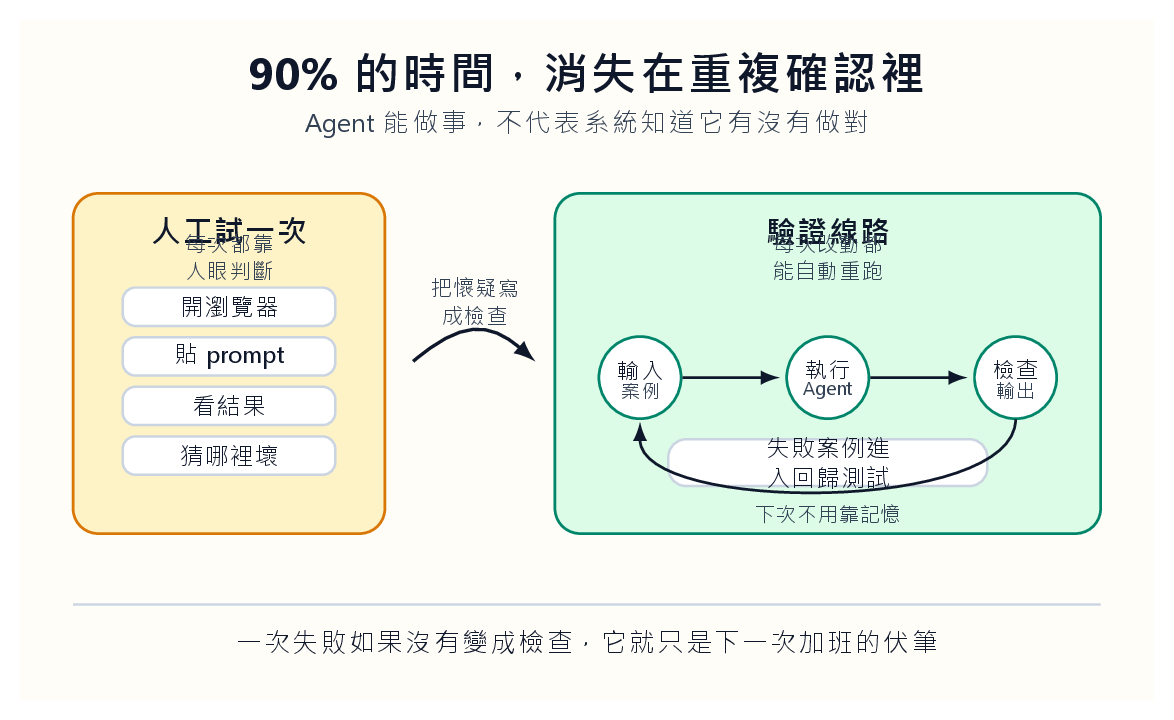
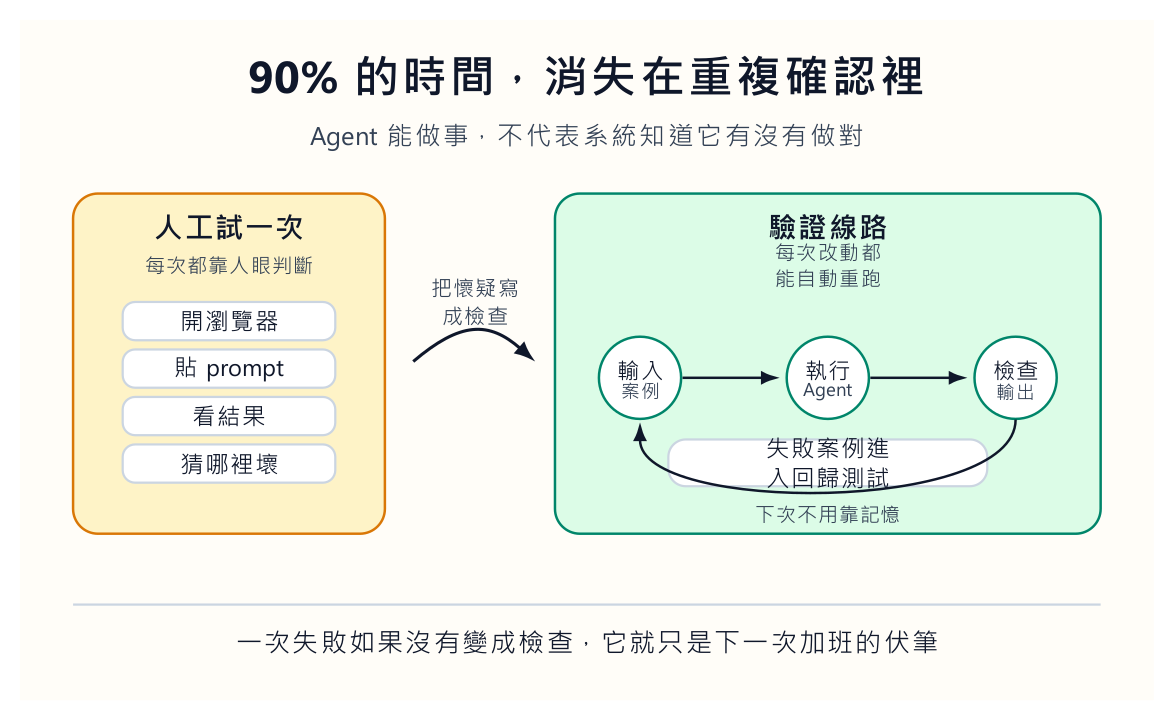
Refine agent engineering knowledge essays

diff --git a/knowledge/posts/2026-07-08-ai-agent-verification-harness/verification-harness.tex b/knowledge/posts/2026-07-08-ai-agent-verification-harness/verification-harness.tex
@@ -23,13 +23,13 @@
 \begin{document}
 \begin{tikzpicture}[x=1cm,y=1cm,>=Latex]
 \path[fill=paper] (0,0) rectangle (16,9.6);
-\node[font=\bfseries\fontsize{18}{22}\selectfont,text=navy,align=center,text width=14.6cm] at (8,8.85) {90\% 的時間，消失在重複確認裡};
-\node[font=\fontsize{10.5}{13}\selectfont,text=muted,align=center,text width=13.8cm] at (8,8.12) {Agent 能做事，不代表系統知道它有沒有做對};
+\node[font=\bfseries\fontsize{18}{23}\selectfont,text=navy,align=center,text width=14.6cm] at (8,8.82) {90\% 的時間，消失在重複確認裡};
+\node[font=\fontsize{10.3}{13.8}\selectfont,text=muted,align=center,text width=13.8cm] at (8,7.94) {Agent 能做事，不代表系統知道它有沒有做對};
 
 \draw[rounded corners=10pt,fill=goldsoft,draw=gold,line width=1pt] (.75,2.35) rectangle (5.15,7.15);
-\node[font=\bfseries\fontsize{12}{15}\selectfont,text=navy,align=center,text width=2.65cm] at (2.95,6.62) {人工試一次};
-\node[font=\fontsize{8.5}{11}\selectfont,text=muted,align=center,text width=2.15cm] at (2.95,6.25) {每次都靠人眼判斷};
-\foreach \y/\t in {5.55/開瀏覽器,4.85/貼 prompt,4.15/看結果,3.45/猜哪裡壞}{
+\node[font=\bfseries\fontsize{11.5}{14.5}\selectfont,text=navy,align=center,text width=2.85cm] at (2.95,6.68) {人工試一次};
+\node[font=\fontsize{8.1}{10.3}\selectfont,text=muted,align=center,text width=2.7cm] at (2.95,6.14) {每次都靠人眼判斷};
+\foreach \y/\t in {5.35/開瀏覽器,4.68/貼 prompt,4.01/看結果,3.34/猜哪裡壞}{
   \draw[rounded corners=5pt,fill=white,draw=line,line width=.9pt] (1.45,\y-.27) rectangle (4.45,\y+.27);
   \node[font=\fontsize{9.5}{12}\selectfont,text=navy,align=center,text width=2.3cm] at (2.95,\y) {\t};
 }
@@ -38,8 +38,8 @@
 \node[font=\fontsize{8.5}{11}\selectfont,text=muted,align=center,text width=2.15cm] at (6.42,5.62) {把懷疑寫成檢查};
 
 \draw[rounded corners=10pt,fill=greensoft,draw=green,line width=1pt] (7.55,2.35) rectangle (15.25,7.15);
-\node[font=\bfseries\fontsize{12}{15}\selectfont,text=navy,align=center,text width=2.65cm] at (11.4,6.62) {驗證線路};
-\node[font=\fontsize{8.5}{11}\selectfont,text=muted,align=center,text width=2.15cm] at (11.4,6.25) {每次改動都能自動重跑};
+\node[font=\bfseries\fontsize{11.5}{14.5}\selectfont,text=navy,align=center,text width=2.85cm] at (11.4,6.68) {驗證線路};
+\node[font=\fontsize{8.1}{10.3}\selectfont,text=muted,align=center,text width=2.7cm] at (11.4,6.14) {每次改動都能自動重跑};
 \foreach \x/\a/\b in {8.75/輸入/案例,11.4/執行/Agent,14.05/檢查/輸出}{
   \draw[fill=white,draw=green,line width=1pt] (\x,4.55) circle (.58);
   \node[font=\fontsize{9}{11}\selectfont,text=navy,align=center,text width=1.45cm] at (\x,4.66) {\a};

diff --git a/knowledge/posts/2026-07-08-agent-computer-interface/index.md b/knowledge/posts/2026-07-08-agent-computer-interface/index.md
@@ -1,5 +1,5 @@
 ---
-title: "開發 AI Agent 一年後，我們發現真正該拆的是 UI"
+title: "讓 Agent 點 UI，是把工程問題推給模型猜"
 author: "張修瑋"
 date: "2026-07-08"
 categories:
@@ -7,109 +7,93 @@ categories:
   - AI Agent
   - ACI
   - 工作流
-description: "面向 AI Agent 的產品，不是讓模型學會點漂亮按鈕，而是替它準備乾淨的命令、狀態、日誌與回復方式。"
+description: "AI Agent 需要的不是更會點按鈕，而是可讀命令、明確狀態、失敗回報與可追問的軌跡。"
 image: aci-split.png
 draft: false
 ---
 
 我們以前很自然地假設：如果一個網站人可以用，AI Agent 應該也能用。
 
-這個假設很誘人。畫面都在那裡，按鈕也在那裡，輸入框也在那裡。既然模型已經能看圖、能讀文字、能操作瀏覽器，讓它像助理一樣點來點去，好像只是下一步。
+畫面都在那裡，按鈕也在那裡，輸入框也在那裡。模型既然能看圖、讀字、操作瀏覽器，讓它像助理一樣點來點去，好像只是順手的下一步。
 
-實作之後才知道，這是很貴的一步。
+真正做下去才知道，這一步很貴。
 
-人看到一個按鈕，會自動忽略旁邊的裝飾、陰影、彈窗、載入動畫。人知道哪一個錯誤訊息可以無視，哪一個才是真的失敗。人也知道一個頁面轉了三秒還沒好，要等，還是要重新整理。
+人看到一個頁面，會自動忽略裝飾、陰影、彈窗、載入動畫。人知道哪一個錯誤訊息可以先放著，哪一個是真的失敗。人也知道頁面轉了三秒還沒好時，要等，還是要重新整理。Agent 沒有這些身體經驗。它會把畫面上的雜訊也當成資訊，把暫時狀態當成結果，把「看起來差不多」當成完成。
 
-Agent 不會自然知道這些。它會把畫面上的雜訊也當資訊，把暫時狀態當結果，把「看起來差不多」當完成。你以為自己在做智慧代理，其實常常是在訓練一個昂貴的瀏覽器操作員。
+我們以為自己在做智慧代理，有時其實是在訓練一個昂貴的瀏覽器操作員。
 
-**人看的畫面，不等於 Agent 能用的介面**
+## 人會忽略雜訊，Agent 會把雜訊當訊息
 
-我們後來開始把 UI 分成兩種。
+這不是模型夠不夠聰明而已，而是介面把太多判斷推給模型。
 
-一種是給人看的。它需要好讀、好點、有回饋、有情緒。人需要知道自己在哪裡，下一步能做什麼，錯了怎麼回來。這是前端設計的本分。
+一個按鈕的顏色、一段提示的位置、一個 loading spinner 的停留時間，對人來說只是感覺；對 Agent 來說，可能變成判斷依據。若系統沒有明確告訴它「現在是 draft」、「render 已完成」、「同步仍在等 Pages 部署」，它就只能猜。
 
-另一種是給 Agent 用的。它不需要漸層，也不需要漂亮空狀態。它需要清楚的命令、乾淨的輸入、可讀的錯誤、穩定的狀態。最好每一步都有結構化輸出，不要讓模型猜。
+猜一次看起來很神奇，猜十次就會變成事故。
 
-這不是把前端做醜。這是承認人和 Agent 是兩種使用者。
+所以我們後來開始把 UI 分成兩種。一種是給人看的，它需要好讀、好點、有回饋，也要保留判斷的餘地。另一種是給 Agent 用的，它不需要漸層、不需要漂亮空狀態，它需要命令、輸入、錯誤、狀態和可重跑的回報。
+
+這不是把前端做醜。這是承認人和 Agent 不是同一種使用者。
 
 ![人類介面與 Agent 介面應該分開設計](aci-split.png)
 
-*人要的是可操作的畫面，Agent 要的是可讀、可重跑、可檢查的入口。*
+## 同一個系統，應該有兩種入口
 
-[SWE-agent 論文〈SWE-agent: Agent-Computer Interfaces Enable Automated Software Engineering〉](https://arxiv.org/abs/2405.15793)把這件事說得很清楚：語言模型代理是新的使用者類型，它們有自己的需求。SWE-agent 的做法不是只把模型丟進一般終端機，而是替它設計 Agent-Computer Interface，也就是 ACI。它給模型適合瀏覽檔案、編輯程式、搜尋、執行測試的命令與回饋格式。
+[SWE-agent 論文〈SWE-agent: Agent-Computer Interfaces Enable Automated Software Engineering〉](https://arxiv.org/abs/2405.15793)讓我重新理解這件事。它沒有只把模型丟進一般終端機，而是替模型設計適合瀏覽檔案、編輯程式、搜尋、執行測試的命令和回饋格式。
 
-這個角度很有用。因為它把問題從「模型夠不夠聰明」移回「系統有沒有把工作說清楚」。
+這個角度很有用，因為問題被移回系統設計：不是讓模型在雜亂介面裡表演理解力，而是讓系統把工作說清楚。
 
-如果一個 Agent 每次都要猜哪個按鈕是真的提交，猜頁面有沒有載完，猜錯誤訊息藏在哪裡，那不是智慧問題。那是介面把太多判斷推給模型。
-
-**前端留下給人，後端要有給 Agent 走的路**
-
-以網站管理為例，人類編輯需要一個好的後台。可以看文章、改標題、插圖片、預覽、同步。這些畫面很值得打磨。
-
-可是 Agent 不應該只靠這個畫面工作。它更適合走另一條路：讀取文章清單的 API，取得單篇文章的原始內容，寫入新草稿，執行 render，檢查圖片，提交版本，推送部署，輪詢正式頁面。每一步都回傳結構化結果。
+以網站管理為例，人類編輯需要好的後台。可以看文章、改標題、插圖片、預覽、同步。這些畫面值得打磨。可是 Agent 不應該只靠這個畫面工作。它更適合走另一條路：讀文章清單，取得單篇原始內容，寫入草稿，執行 render，檢查圖片，提交版本，推送部署，再輪詢正式頁面。
 
 這條路可以沒有按鈕，但不能沒有狀態。
 
-它要清楚說出：現在處理哪一篇文章、產生了哪些檔案、哪個測試通過、哪個測試失敗、下一步是否可以繼續。Agent 不怕文字多，它怕資訊混在畫面裡，還要自己從樣式和位置猜意思。
+## Headless 不是少一個畫面
+
+很多人聽到 headless，會以為只是把畫面拿掉。不是。Headless 的重點不是少一個畫面，而是多一條穩定路徑。
+
+人類後台讓人處理例外、判斷內容、看預覽。Agent 的命令層則處理可重複工作：`load_post`、`save_draft`、`render_site`、`verify_live_page`、`publish_if_clean`。這些命令不必多，但必須穩。
 
 ![Headless 工作流讓 Agent 不必猜畫面](headless-agent.png)
 
-*人用後台處理例外與判斷，Agent 走 headless 路徑處理可重複的工作。*
+每個命令都像一張小工作單。`save_draft` 不能只回「完成」，它要回檔案路徑、修改時間、是否碰到圖片、是否更新索引。`verify_live_page` 不能只回「正常」，它要回它查了哪個網址、找到哪個標題、頁面裡有哪些圖檔、是否還停在舊版本。
 
-我們現在可以盡量把產品拆成兩層。上層是人看的工作台，下層是 Agent 可以呼叫的工作契約。人看到的是文章卡片、編輯器、預覽和同步按鈕。Agent 看到的是 `load_post`、`save_draft`、`render_site`、`verify_live_page`、`publish_if_clean`。
+模糊回饋會讓 Agent 編故事。清楚回饋會讓 Agent 修正。
 
-這些命令不需要很多。它們需要穩。
+## 狀態才是真正的介面
 
-我們可以把每個命令想成一張很小的工作單。工作單上不寫「請幫我們處理好」，而是寫清楚物件、限制、成功條件和失敗回報。`save_draft` 不能只回「完成」，它要回檔案路徑、修改時間、是否碰到圖片、是否更新索引。`verify_live_page` 不能只回「正常」，它要回它查了哪個網址、找到哪個標題、頁面裡有哪些圖檔、是否還在舊版本。
-
-這種設計看起來很工程，但它其實很人。因為人不用再替 Agent 猜它剛剛到底做了什麼。人只要看工作單的回報，就知道要放行、退回，還是叫它重跑。
-
-每個命令都應該有輸入、輸出、失敗訊息和可追蹤的 log。Agent 呼叫錯了，系統要回它「缺少 image_alt」；render 失敗，系統要回錯誤檔案和行數；正式頁面還沒同步，系統要回現在查到的舊版本，而不是只說「請稍後」。
-
-模糊的回饋會讓 Agent 編故事。清楚的回饋會讓 Agent 修正。
-
-**真正的介面不是按鈕，是可讀的狀態**
-
-很多 AI 產品喜歡做一個聊天框，讓使用者說：「幫我們完成這件事。」聊天框很友善，但它不是工作流本身。
+很多 AI 產品喜歡放一個聊天框，讓使用者說：「幫我完成這件事。」聊天框很友善，但它不是工作流本身。
 
 工作流需要狀態。
 
-一篇文章現在是 draft、ready、published、hidden，還是 deleted？一張圖片是 uploaded、referenced、rendered，還是 missing？一次部署是 queued、running、failed、live，還是 stale？如果這些狀態只藏在畫面顏色裡，Agent 就會猜。猜一次可以，猜十次就會出事。
+一篇文章現在是 draft、ready、published、hidden，還是 deleted？一張圖片是 uploaded、referenced、rendered，還是 missing？一次部署是 queued、running、failed、live，還是 stale？如果這些狀態只藏在畫面顏色裡，Agent 就會猜。猜錯後，人還要替它收拾。
 
-好的 Agent 介面應該像表單，也像儀表板。它讓模型知道自己能做什麼，不能做什麼，做了之後系統回了什麼。它也讓人類事後可以追問：這次錯在哪裡？是哪個命令送錯？是哪個檢查沒攔？是哪個狀態沒有更新？
+好的 Agent 介面應該像表單，也像儀表板。它讓模型知道能做什麼、不能做什麼、做了之後系統回了什麼。它也讓人事後可以追問：這次錯在哪裡？是哪個命令送錯？是哪個檢查沒攔？哪個狀態沒有更新？
 
-我們不能相信只靠「請你更小心」就能讓 Agent 穩定。人都做不到，模型更不該被期待做到。
+我們不能相信一句「請你更小心」就能讓 Agent 穩定。人都做不到，模型更不該被期待做到。
 
-**Feature flag 不是工程潔癖，是把風險分開**
+## 新能力要先關在小圈裡
 
-Agent 系統還有一個常被低估的問題：新功能不能一次丟到正式流程。
+Agent 系統還有一個很容易被低估的問題：新功能不能一次丟進正式流程。
 
-例如你想讓 Agent 自動改寫文章、補圖、同步網站。聽起來很順。但中間任何一段都可能出錯。它可能寫出漂亮但失真的段落，也可能把圖片放錯位置，或把隱藏貼文一起發布。
+例如我們想讓 Agent 自動改寫文章、補圖、同步網站。聽起來很順。可是中間任何一段都可能出錯。它可能寫出漂亮但失真的段落，也可能把圖片放錯位置，或把 hidden 文章一起發布。
 
-所以我們可以把新能力放在 feature flag 後面。先讓它只處理測試資料，再處理草稿，再開放給少數文章，再進正式流程。每一段都留下分數、失敗原因和人工覆核紀錄。
-
-這不是怕 Agent。這是不要讓一次錯誤污染整條線。
+所以新能力應該放在 feature flag 後面。先處理測試資料，再處理草稿，再開放少數文章，再進正式流程。每一段都要留下分數、失敗原因和人工覆核紀錄。
 
 ![Feature flag 把新能力放進可回退的迴圈](feature-flag-loop.png)
 
-*新能力先進小圈測試，通過驗證才進正式流程；出錯時回退，而不是讓人救火。*
+Feature flag 還有一個好處：它讓比較變得可能。舊流程和新流程可以同時跑，同一批文章跑兩套，再看哪一套錯少、哪一套省時、哪一套需要人改得少。沒有比較，大家只能憑感覺吵；憑感覺談 Agent，很快就會變成信仰問題。
 
-Feature flag 還有一個好處：它讓比較變得可能。你可以同時保留舊流程和新流程，讓同一批文章跑兩套，再看哪一套錯少、哪一套省時、哪一套需要人改得少。沒有比較，大家只能憑感覺吵。
+## 錄影適合 Demo，軌跡才適合維護
 
-而憑感覺討論 Agent，通常會很快變成信仰問題。
-
-**留下錄影，不如留下軌跡**
-
-很多人喜歡錄 Agent 操作畫面。這當然有用，尤其適合 Demo。可是對維護來說，錄影常常不夠。
+很多人喜歡錄 Agent 操作畫面。這當然有用，尤其適合 Demo。可是維護不靠 Demo。
 
 我們更想看軌跡。
 
-它讀了哪個檔案？改了哪一段？為什麼選這張圖？render 花了多久？檢查到了幾個連結？正式頁面查了幾次才更新？LLM supervisor 給了哪一段低分？人類最後改了哪一句？
+它讀了哪個檔案？改了哪一段？為什麼選這張圖？render 花多久？檢查了幾個連結？正式頁面查了幾次才更新？人最後改了哪一句？
 
-這些軌跡會變成下一次改進的材料。錄影只能告訴你它當時看起來怎樣，軌跡才能告訴你系統哪裡缺了一個檢查、哪裡缺了一個狀態、哪裡缺了一個更好的命令。
+這些軌跡會變成下一次改進的材料。錄影只能告訴我們它當時看起來怎樣，軌跡才能告訴我們系統哪裡少了一個檢查、哪裡少了一個狀態、哪裡少了一個更好的命令。
 
-我們現在看到只會操作 UI 的 Agent，會覺得它還沒有真正進入系統。它只是站在門口，學人類按門鈴。
+只會操作 UI 的 Agent，還沒有真正進入系統。它只是站在門口，學人按門鈴。
 
-真正的 Agent 介面要讓它走進來。不是給它更多畫面，而是給它更少猜測。讓它知道任務、狀態、限制、錯誤和下一步。人類負責判斷，系統負責留下證據，Agent 負責把可重複的部分做完。
+真正的 Agent 介面，不是給它更多畫面，而是給它更少猜測。讓它知道任務、狀態、限制、錯誤和下一步。人負責判斷，系統留下證據，Agent 把可重複的部分做完。
 
-如果一個 Agent 只能在你的畫面上表演，它還不是系統的一員。它只是被你放進瀏覽器裡的臨時工。
+如果一個 Agent 只能在畫面上表演，它還不是系統的一員。它只是被我們放進瀏覽器裡的臨時工。

diff --git a/knowledge/posts/2026-07-08-ai-agent-verification-harness/index.md b/knowledge/posts/2026-07-08-ai-agent-verification-harness/index.md
@@ -1,5 +1,5 @@
 ---
-title: "我們做 AI Agent 一年，90% 的時間都在做表面功夫"
+title: "Agent 最昂貴的地方，不是行動，是證明它做對"
 author: "張修瑋"
 date: "2026-07-08"
 categories:
@@ -7,105 +7,101 @@ categories:
   - AI Agent
   - 驗證
   - AI 工程
-description: "AI Agent 開發最消耗人的地方，不是讓模型說出下一步，而是把對錯判斷變成可以反覆執行的驗證線路。"
+description: "AI Agent 開發最耗人的地方，是把每一次懷疑寫成會自動亮紅燈的驗證線路。"
 image: verification-harness.png
 draft: false
 ---
 
 我們最不想承認的一件事是：做 AI Agent 這一年，很多時間根本不是在做 Agent。
 
-我們是在開瀏覽器、貼 prompt、等回應、看 log、截圖、重跑、再改一個字。模型有時候走對路，有時候繞遠路，有時候看起來很聰明，最後卻把一個小欄位填錯。每次失敗，我們都以為自己抓到問題了。隔天換一個案例，它又用另一種方式錯。
+我們是在開瀏覽器、貼 prompt、等回應、看 log、截圖、重跑、再改一個字。模型有時走對路，有時繞遠路，有時看起來很聰明，最後卻把一個小欄位填錯。每次失敗，我們都以為自己抓到問題了。隔天換一個案例，它又用另一種方式錯。
 
-那種疲憊很熟悉。不是被困在大問題裡，而是被一堆小動作拖住。你知道自己在前進，可是每一步都要親手確認。像一個人拿著手電筒，在倉庫裡檢查每一扇門有沒有鎖好。
+那種疲憊很熟悉。不是被困在大問題裡，而是被一堆小動作拖住。你知道自己在前進，可是每一步都要親手確認。
 
-**我們以為自己在開發，其實是在替系統補眼睛**
+像一個人拿著手電筒，在倉庫裡檢查每一扇門有沒有鎖好。
+
+## 我們不是在開發，是在替系統補眼睛
 
 最早我們以為答案是把 prompt 寫得更好。把角色講清楚，把步驟列出來，把限制寫死。這當然有用，但只解決了一小段路。
 
-真正煩人的地方不在「Agent 不知道要做什麼」。它多半知道。真正煩人的是：它做完之後，我們不知道能不能相信。它產生了一份報表，欄位對嗎？它改了一段程式，有沒有偷改別的地方？它更新了一篇文章，圖片有沒有消失？它說同步成功，正式網站真的更新了嗎？
+真正耗人的地方不在「Agent 不知道要做什麼」。它多半知道。真正耗人的地方是：它做完之後，我們不知道能不能相信。
+
+它產生了一份報表，欄位對嗎？它改了一段程式，有沒有偷改別的地方？它更新了一篇文章，圖片有沒有消失？它說同步成功，正式網站真的更新了嗎？
 
 如果這些問題都要靠人眼看，Agent 做得越多，人越累。
 
 ![把手動點擊改成驗證線路](verification-harness.png)
 
-*不是把人拿掉，而是把每一次懷疑變成下一次會自動執行的檢查。*
+後來我們慢慢承認：Agent 的能力不能只看它能不能做事，而要看它做完後，系統能不能自己說出哪裡不對。沒有這條線路，Agent 看起來像自動化，實際上只是把人的手移到另一個位置。
 
-我們後來才慢慢承認：Agent 的能力不是只看它能不能做事，而是看它做完之後，系統能不能自己說出哪裡不對。沒有這條線路，Agent 看起來像自動化，實際上只是把人的手移到另一個位置。
-
-以前我們會盯著畫面問：「它這次有沒有成功？」現在我們比較想問：「如果它錯了，哪一個檢查會亮紅燈？」
+以前我們會盯著畫面問：「它這次有沒有成功？」現在我們比較想問：「如果它錯了，哪一盞燈會亮？」
 
 這兩句話差很多。
 
-**生成很快，判斷很慢**
+## 生成很快，判斷很慢
 
-[Jason Wei 在〈Asymmetry of verification and verifier’s rule〉](https://www.jasonwei.net/blog/asymmetry-of-verification-and-verifiers-law)裡談到一個很有用的概念：有些任務，提出答案很難，檢查答案卻很快。數獨是這樣，程式測試也是這樣。反過來，有些任務產生答案很容易，檢查答案卻很麻煩。文章事實查核、研究主張、商業報告常常落在這一邊。
+[Jason Wei 在〈Asymmetry of verification and verifier’s rule〉](https://www.jasonwei.net/blog/asymmetry-of-verification-and-verifiers-law)裡談到一個很有用的概念：有些任務，提出答案很難，檢查答案卻很快。數獨是這樣，程式測試也是這樣。也有一些任務剛好反過來，產生答案很容易，檢查答案卻很麻煩。文章事實查核、研究主張、商業報告常常落在這一邊。
 
 做 Agent 最痛的地方，常常就是把工作放錯邊。
 
-如果任務是「幫我們產生十個標題」，生成很便宜。可是如果任務是「幫我們更新網站，分類正確，圖片正常，連結可用，正式頁面同步，讀者看不到原始 Markdown 符號」，那就不是單純生成。這是一組可以失敗的條件。
+如果任務是「幫我們產生十個標題」，生成很便宜。可是如果任務是「幫我們更新網站，分類正確，圖片正常，連結可用，正式頁面同步，讀者看不到原始 Markdown 符號」，那就不是單純生成。那是一組會失敗的條件。
 
-一旦條件多了，人的注意力就會被切碎。你剛檢查完標題，圖片可能壞了。你剛檢查完圖片，部署可能還沒完成。你剛檢查完正式頁面，才發現摘要卡片還在吃舊的快取。
+條件一多，人的注意力就會被切碎。剛檢查完標題，圖片可能壞了。剛檢查完圖片，部署可能還沒完成。剛檢查完正式頁面，才發現摘要卡片還在吃舊快取。
 
 這不是模型笨。這是驗證設計太薄。
 
 ![生成與驗證的成本不在同一邊](verification-asymmetry.png)
 
-*Agent 產生內容的速度越快，沒有驗證線路的人就越快被淹沒。*
+## 失敗如果留在腦袋裡，它還活著
 
-我們現在看一個 Agent 任務，第一個反應不是問模型能不能做，而是問它做完後能不能被檢查。能被檢查的任務，才有機會變成穩定的工作流。不能被檢查的任務，只會變成一次又一次的人工巡邏。
+我們後來會借用晶片設計的想法。
 
-**晶片工程師早就知道：一次手動驗證等於沒有驗證**
-
-我們後來可以借用晶片設計的想法。
-
-晶片工程師不會寫完 RTL，就憑感覺說「看起來能 tape-out」。他們會準備 testbench、assertion、coverage、scoreboard。每一個小改動都要跑回歸測試。不是因為工程師不相信自己，而是因為他們知道一個殘酷事實：人的腦子不適合記住所有邊界條件。
+晶片工程師不會寫完 RTL，就憑感覺說「看起來可以 tape-out」。他們準備 testbench、assertion、coverage、scoreboard。每一個小改動都要跑回歸測試。不是因為工程師不相信自己，而是因為他們知道一個殘酷事實：人的腦子不適合記住所有邊界條件。
 
 AI Agent 也是這樣。
 
-你今天發現它在「沒有圖片」的貼文會出錯，這不該只寫進你的腦袋。它應該變成一個測試案例。你今天發現它把隱藏貼文同步到正式網站，這不該只是一個提醒。它應該變成一條阻擋規則。你今天發現它把文章分類放錯位置，這不該變成下一次手動確認。它應該進入回歸測試。
+今天我們發現它在「沒有圖片」的貼文會出錯，這不該只寫進腦袋。它應該變成一個測試案例。今天我們發現它把隱藏貼文同步到正式網站，這不該只是一個提醒。它應該變成一條阻擋規則。今天我們發現它把文章分類放錯位置，這不該變成下一次手動確認。它應該進入回歸測試。
 
 如果錯誤只存在人的記憶裡，那個錯誤其實還活著。
 
-這也是我們看很多 Agent 專案時最不安的地方。Demo 很漂亮，流程很順，畫面上 Agent 會自己點來點去。可是你問它有多少測試資料、多少錯誤案例、多少回歸紀錄、多少可重放的軌跡，房間就安靜下來。
+這也是很多 Agent 專案讓人不安的地方。Demo 很漂亮，流程很順，畫面上 Agent 會自己點來點去。可是你問它有多少測試資料、多少錯誤案例、多少回歸紀錄、多少可重放的軌跡，房間就安靜下來。
 
 Agent 不需要被掌聲保護。它需要被檢查逼問。
 
-**不要讓 LLM 當唯一法官**
+## 不要讓 LLM 當唯一法官
 
 很多人想用另一個 LLM 來檢查 Agent。這可以做，但不能只靠它。
 
-LLM supervisor 很適合看語意、語氣、內容是否跑題、段落是否有說服力。可是它不適合替代所有硬檢查。檔案在不在、網址能不能開、HTML 裡有沒有壞圖、文章是否被標成 draft、正式頁面是否含有新圖檔，這些都應該用確定性的 assertion 去判斷。
+LLM supervisor 很適合看語意、語氣、內容是否跑題、段落是否有說服力。可是它不適合替代所有硬檢查。檔案在不在、網址能不能開、HTML 裡有沒有壞圖、文章是否被標成 draft、正式頁面是否含有新圖檔，這些都應該用確定性的 assertion 判斷。
 
-我們後來會比較傾向雙層設計。
+我們後來比較傾向雙層設計。
 
 第一層是硬檢查。它不講道理，只回報通過或失敗。圖片路徑不存在就是失敗。render 出錯就是失敗。正式網站沒有新文章就是失敗。文章正文出現讀者不該看到的原始符號，就是失敗。
 
-第二層才是 LLM supervisor。它看文字是否像人寫的，標題是否有力，段落是否太像報告，圖是否放在需要的位置，文章是否真的回答了讀者的問題。這層比較像編輯，不像警察。
-
-兩層混在一起會很危險。你讓 LLM 同時判斷檔案存在與文章好不好，它會把可以精確檢查的事變成一段溫柔評論。那不是驗證，那是安慰。
+第二層才是 LLM supervisor。它看文字是否像人寫的，標題是否有力，段落是否太像報告，圖是否放在需要的位置，文章是否真的回答讀者的問題。這一層比較像編輯，不像警察。
 
 ![雙層驗證：硬檢查和編輯判斷分開](two-layer-judge.png)
 
-*硬檢查負責把錯誤擋下來，LLM supervisor 負責看那些不能只靠規則判斷的品質。*
+兩層混在一起會很危險。若讓 LLM 同時判斷檔案存在與文章好不好，它會把可以精確檢查的事變成一段溫柔評論。那不是驗證，那是安慰。
+
+## 驗證線路要能追問每一步
 
 這套想法不只適用於寫網站。寫程式、整理資料、批改作業、生成報告都一樣。只要 Agent 會改變外部世界，就要留下可以被追問的軌跡。
 
-輸入是什麼？它做了哪一步？用了哪個工具？輸出在哪裡？哪一個 assertion 通過？哪一個 supervisor 給低分？如果人類最後介入，是因為哪一個紅燈？
+輸入是什麼？它做了哪一步？用了哪個工具？輸出在哪裡？哪一個 assertion 通過？哪一個 supervisor 給低分？如果人最後介入，是因為哪一個紅燈？
 
-沒有這些東西，Agent 的錯會像霧一樣散開。你知道它錯了，但不知道從哪裡抓。
+沒有這些東西，Agent 的錯會像霧一樣散開。我們知道它錯了，但不知道從哪裡抓。
 
-**Codex 不只是寫程式的人，它也該被迫寫驗證**
+Codex 也應該被這樣要求。我們不只叫它寫功能，也叫它寫測試；不只叫它改文章，也叫它檢查 render；不只叫它推上 GitHub，也叫它輪詢正式頁面；不只叫它看截圖，也叫它讀 HTML，確認讀者看到的是乾淨頁面。
 
-我們現在可以把 Coding Agent 當成一個需要被約束的同事。
+這樣做一開始比較慢。要設計案例，要寫檢查，要整理輸出，要讓失敗訊息清楚到下一個人能看懂。可是幾輪之後，時間會回來。因為同一種錯不再需要我們用眼睛抓第二次。
 
-我們不只叫它寫功能，也叫它寫測試；不只叫它改文章，也叫它檢查 render；不只叫它推上 GitHub，也叫它輪詢正式頁面；不只叫它截圖，也叫它讀 HTML，確認讀者看到的是乾淨頁面。
-
-這樣做一開始比較慢。你要設計案例，要寫檢查，要整理輸出，要讓失敗訊息清楚到下一個人能看懂。可是幾輪之後，時間會回來。因為同一種錯不再需要你用眼睛抓第二次。
+## 不是讓 Agent 神奇，而是讓人少巡邏
 
 這才是我們所說的「把 90% 拿回來」。不是讓 Agent 變得神奇，而是讓人的注意力不用一直被低階確認偷走。
 
-做 Agent 最容易犯的錯，是把所有力氣放在行動能力。讓它會點按鈕、會查資料、會寫檔案、會呼叫 API。這些都必要，但還不夠。真正能讓系統長大的，是驗證能力。
+做 Agent 最容易犯的錯，是把所有力氣放在行動能力：會點按鈕、會查資料、會寫檔案、會呼叫 API。這些都必要，但還不夠。真正能讓系統長大的，是驗證能力。
 
-一個 Agent 沒有驗證，就像一個會講很多話、但從不交作業的人。你會被它吸引幾天，然後開始害怕它。
+一個沒有驗證的 Agent，像一個會講很多話、但從不交作業的人。你會被它吸引幾天，然後開始害怕它。
 
-下一次你覺得 Agent 不穩，不要先改 prompt。先問一個更難聽、也更有用的問題：如果它錯了，哪一盞燈會亮？
+下一次我們覺得 Agent 不穩，不要先改 prompt。先問一個更難聽、也更有用的問題：如果它錯了，哪一盞燈會亮？